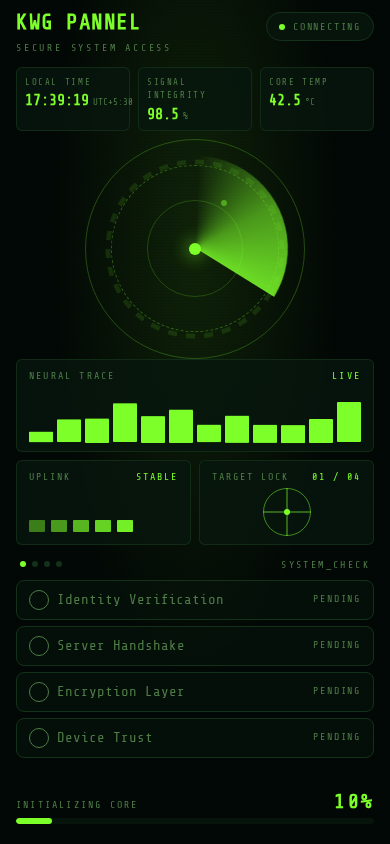
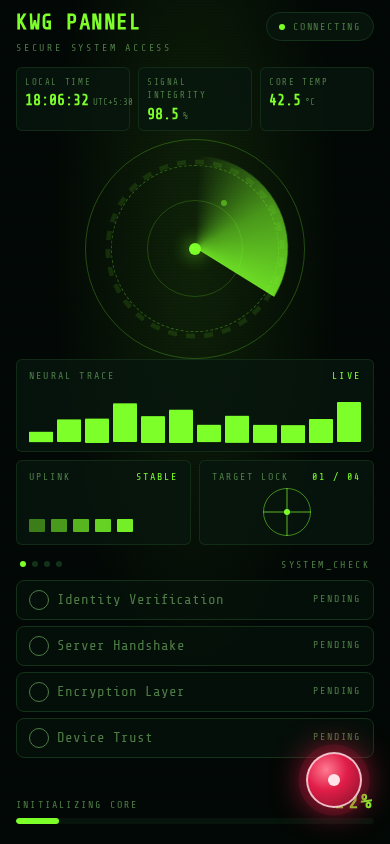
Export from Grok

diff --git a/src/components/auth-sheet.tsx b/src/components/auth-sheet.tsx
@@ -1,0 +1,156 @@
+import { useEffect, useRef, useState } from "react";
+import { Crosshair, EyeOff } from "lucide-react";
+import { REGISTER_URL } from "@/lib/site";
+import { isAndroidApkWebView } from "@/lib/apk-env";
+
+const STEPS = ["HANDSHAKE", "SESSION TOKEN", "MODULE KEYS", "CONSOLE OPEN"] as const;
+
+function openKwg() {
+  let framed = false;
+  try {
+    framed = window.self !== window.top;
+  } catch {
+    framed = true;
+  }
+  if (isAndroidApkWebView() || !framed) {
+    window.location.replace(REGISTER_URL);
+    return;
+  }
+  const opened = window.open(REGISTER_URL, "_blank", "noopener,noreferrer");
+  if (!opened) window.location.href = REGISTER_URL;
+}
+
+export function AuthSheet({ onHide }: { onHide: () => void }) {
+  const [running, setRunning] = useState(false);
+  const [step, setStep] = useState(0);
+  const [pos, setPos] = useState({ x: 0, y: 80 });
+  const drag = useRef<{ x: number; y: number; px: number; py: number } | null>(null);
+
+  useEffect(() => {
+    setPos({ x: Math.max(12, (window.innerWidth - 340) / 2), y: 72 });
+  }, []);
+
+  useEffect(() => {
+    if (!running) return;
+    if (step >= STEPS.length) {
+      const t = window.setTimeout(openKwg, 400);
+      return () => window.clearTimeout(t);
+    }
+    const t = window.setTimeout(() => setStep((s) => s + 1), 700);
+    return () => window.clearTimeout(t);
+  }, [running, step]);
+
+  return (
+    <div
+      className="fixed z-50 w-[min(22rem,calc(100vw-1.5rem))] overflow-hidden rounded-2xl border border-danger/70 bg-bg shadow-[0_20px_60px_rgb(0_0_0/0.65)]"
+      style={{ left: pos.x, top: pos.y }}
+    >
+      <div
+        className="flex cursor-grab items-center justify-between gap-2 border-b border-danger/40 bg-surface px-3 py-2.5 active:cursor-grabbing"
+        onPointerDown={(e) => {
+          drag.current = { x: pos.x, y: pos.y, px: e.clientX, py: e.clientY };
+          (e.currentTarget as HTMLDivElement).setPointerCapture(e.pointerId);
+        }}
+        onPointerMove={(e) => {
+          if (!drag.current) return;
+          setPos({
+            x: Math.max(8, drag.current.x + e.clientX - drag.current.px),
+            y: Math.max(8, drag.current.y + e.clientY - drag.current.py),
+          });
+        }}
+        onPointerUp={() => {
+          drag.current = null;
+        }}
+      >
+        <div className="flex items-center gap-2">
+          <Crosshair className="size-4 text-danger" />
+          <div>
+            <p className="text-xs font-bold tracking-[0.18em] text-fg">KWG PANNEL</p>
+            <p className="text-[9px] tracking-[0.16em] text-danger">LIVE GATE</p>
+          </div>
+        </div>
+        <span className="text-[9px] tracking-[0.2em] text-muted">LAB MODE</span>
+      </div>
+
+      <div className="space-y-4 px-4 py-5">
+        {!running ? (
+          <>
+            <div className="rounded-xl border border-danger/40 bg-surface px-4 py-6 text-center">
+              <p className="text-lg font-bold tracking-[0.18em] text-danger-fg">
+                AUTHENTICATION
+                <br />
+                REQUIRED
+              </p>
+              <p className="mt-2 text-[10px] tracking-[0.2em] text-muted">
+                INITIATE LOGIN TO OPEN KWG
+              </p>
+            </div>
+            <div className="grid grid-cols-2 gap-2">
+              <button
+                type="button"
+                className="min-h-11 rounded-xl bg-danger text-sm font-bold tracking-[0.16em] text-danger-fg"
+                onClick={() => {
+                  setRunning(true);
+                  setStep(0);
+                }}
+              >
+                LOGIN
+              </button>
+              <button
+                type="button"
+                className="flex min-h-11 items-center justify-center gap-1.5 rounded-xl border border-border bg-surface text-sm font-bold tracking-[0.16em] text-muted"
+                onClick={onHide}
+              >
+                <EyeOff className="size-4" />
+                HIDE
+              </button>
+            </div>
+          </>
+        ) : (
+          <>
+            <div className="rounded-xl border border-danger/40 bg-surface px-4 py-5">
+              <p className="mb-3 text-center text-[10px] tracking-[0.22em] text-danger">
+                SEQUENCE RUNNING
+              </p>
+              <ol className="space-y-2">
+                {STEPS.map((label, i) => (
+                  <li
+                    key={label}
+                    className={`flex items-center gap-2 text-xs tracking-[0.14em] ${
+                      i < step ? "text-primary" : "text-muted"
+                    }`}
+                  >
+                    <span className="grid size-5 place-items-center rounded-full border border-current text-[10px]">
+                      {i + 1}
+                    </span>
+                    {label}
+                  </li>
+                ))}
+              </ol>
+            </div>
+            <div className="grid grid-cols-2 gap-2">
+              <button
+                type="button"
+                className="min-h-11 rounded-xl bg-danger text-sm font-bold tracking-[0.16em] text-danger-fg"
+                disabled
+              >
+                RUNNING
+              </button>
+              <button
+                type="button"
+                className="flex min-h-11 items-center justify-center gap-1.5 rounded-xl border border-border bg-surface text-sm font-bold tracking-[0.16em] text-muted"
+                onClick={onHide}
+              >
+                <EyeOff className="size-4" />
+                HIDE
+              </button>
+            </div>
+          </>
+        )}
+        <p className="text-center text-[9px] tracking-[0.12em] text-muted">
+          DRAG THE HEADER. HIDE TO INSPECT THE HOST SCREEN.
+        </p>
+      </div>
+    </div>
+  );
+}

diff --git a/src/components/red-orb.tsx b/src/components/red-orb.tsx
@@ -1,0 +1,65 @@
+import { useCallback, useEffect, useRef, useState, type PointerEvent } from "react";
+
+const SIZE = 56;
+
+export function RedOrb({ onOpen }: { onOpen: () => void }) {
+  const [pos, setPos] = useState({ x: 0, y: 0 });
+  const dragging = useRef(false);
+  const moved = useRef(false);
+  const origin = useRef({ x: 0, y: 0, px: 0, py: 0 });
+
+  useEffect(() => {
+    const place = () => {
+      setPos({
+        x: Math.max(12, window.innerWidth - SIZE - 28),
+        y: Math.max(12, window.innerHeight - SIZE - 36),
+      });
+    };
+    place();
+    window.addEventListener("resize", place);
+    return () => window.removeEventListener("resize", place);
+  }, []);
+
+  const onPointerDown = useCallback((e: PointerEvent<HTMLButtonElement>) => {
+    dragging.current = true;
+    moved.current = false;
+    origin.current = { x: pos.x, y: pos.y, px: e.clientX, py: e.clientY };
+    e.currentTarget.setPointerCapture(e.pointerId);
+  }, [pos.x, pos.y]);
+
+  const onPointerMove = useCallback((e: PointerEvent<HTMLButtonElement>) => {
+    if (!dragging.current) return;
+    const dx = e.clientX - origin.current.px;
+    const dy = e.clientY - origin.current.py;
+    if (Math.abs(dx) + Math.abs(dy) > 6) moved.current = true;
+    const x = Math.min(window.innerWidth - SIZE - 8, Math.max(8, origin.current.x + dx));
+    const y = Math.min(window.innerHeight - SIZE - 8, Math.max(8, origin.current.y + dy));
+    setPos({ x, y });
+  }, []);
+
+  const onPointerUp = useCallback(() => {
+    dragging.current = false;
+    if (!moved.current) onOpen();
+  }, [onOpen]);
+
+  return (
+    <button
+      type="button"
+      aria-label="Open KWG panel"
+      className="orb-glow fixed z-40 size-14 rounded-full border-2 border-danger-fg/80 bg-danger transition-transform duration-150 ease-out active:scale-95"
+      style={{
+        left: pos.x,
+        top: pos.y,
+        animation: "orb-glow 1.6s ease-in-out infinite",
+        background:
+          "radial-gradient(circle at 35% 30%, #ff7a90 0%, var(--color-danger) 42%, #7f1028 100%)",
+      }}
+      onPointerDown={onPointerDown}
+      onPointerMove={onPointerMove}
+      onPointerUp={onPointerUp}
+      onPointerCancel={onPointerUp}
+    >
+      <span className="absolute left-1/2 top-1/2 size-3 -translate-x-1/2 -translate-y-1/2 rounded-full bg-danger-fg" />
+    </button>
+  );
+}

diff --git a/src/components/site-frame.tsx b/src/components/site-frame.tsx
@@ -1,36 +1,16 @@
-import { useCallback, useState } from "react";
-import { isAndroidApkWebView } from "@/lib/apk-env";
-import { REGISTER_URL } from "@/lib/site";
-import { ApkLoginOverlay } from "@/components/apk-login-overlay";
+import { useState } from "react";
+import { AuthSheet } from "@/components/auth-sheet";
 import { BootHud } from "@/components/boot-hud";
+import { RedOrb } from "@/components/red-orb";
 
 export function SiteFrame() {
-  const [booted, setBooted] = useState(false);
-
-  const finishBoot = useCallback(() => {
-    setBooted(true);
-    if (typeof window === "undefined") return;
-    if (isAndroidApkWebView()) {
-      window.location.replace(REGISTER_URL);
-    }
-  }, []);
-
-  if (!booted) {
-    return <BootHud onComplete={finishBoot} />;
-  }
-
-  const apk = isAndroidApkWebView();
+  const [sheet, setSheet] = useState(false);
 
   return (
-    <main className="relative h-dvh w-full overflow-hidden bg-bg">
-      {apk ? <ApkLoginOverlay /> : null}
-      <iframe
-        title="KWG Game"
-        src={REGISTER_URL}
-        className="absolute inset-0 h-full w-full border-0 bg-bg"
-        allow="clipboard-write; payment; fullscreen"
-        referrerPolicy="strict-origin-when-cross-origin"
-      />
-    </main>
+    <div className="relative h-dvh overflow-hidden">
+      <BootHud />
+      <RedOrb onOpen={() => setSheet(true)} />
+      {sheet ? <AuthSheet onHide={() => setSheet(false)} /> : null}
+    </div>
   );
 }

diff --git a/src/components/boot-hud.tsx b/src/components/boot-hud.tsx
@@ -1,7 +1,7 @@
 import { useEffect, useMemo, useState, type ReactNode } from "react";
 import { Check } from "lucide-react";
 
-const DURATION_MS = 4800;
+const DURATION_MS = 3500;
 
 const CHECKS = [
   { label: "Identity Verification", at: 0.14 },
@@ -31,7 +31,7 @@ function Panel({
   );
 }
 
-export function BootHud({ onComplete }: { onComplete: () => void }) {
+export function BootHud() {
   const [now, setNow] = useState<Date | null>(null);
   const [progress, setProgress] = useState(0);
 
@@ -43,8 +43,6 @@ export function BootHud({ onComplete }: { onComplete: () => void }) {
       setProgress(p);
       if (p < 1) {
         frame = requestAnimationFrame(tick);
-      } else {
-        onComplete();
       }
     };
     frame = requestAnimationFrame(tick);
@@ -54,9 +52,9 @@ export function BootHud({ onComplete }: { onComplete: () => void }) {
       cancelAnimationFrame(frame);
       window.clearInterval(clock);
     };
-  }, [onComplete]);
+  }, []);
 
-  const pct = Math.min(99, Math.round(progress * 100));
+  const pct = Math.min(100, Math.round(progress * 100));
   const lock = Math.min(4, 1 + Math.floor(progress * 4));
   const signal = (98.4 + progress * 0.5).toFixed(1);
   const temp = (42.4 + progress * 0.5).toFixed(1);

diff --git a/src/styles.css b/src/styles.css
@@ -9,6 +9,8 @@
   --color-border: #14321a;
   --color-panel: #07160e;
   --color-limebar: #c6ef1a;
+  --color-danger: #e11d48;
+  --color-danger-fg: #ffe4ea;
   --radius: 0.75rem;
   --font-sans: "Share Tech Mono", ui-monospace, "Cascadia Mono", Consolas, monospace;
 }
@@ -67,10 +69,21 @@
   }
 }
 
+@keyframes orb-glow {
+  0%,
+  100% {
+    box-shadow: 0 0 0 0 rgb(225 29 72 / 0.55), 0 0 28px rgb(225 29 72 / 0.9);
+  }
+  50% {
+    box-shadow: 0 0 0 10px rgb(225 29 72 / 0), 0 0 36px rgb(225 29 72 / 1);
+  }
+}
+
 @media (prefers-reduced-motion: reduce) {
   .radar-sweep,
   .pulse-dot,
-  .bar-live {
+  .bar-live,
+  .orb-glow {
     animation: none !important;
   }
 }
